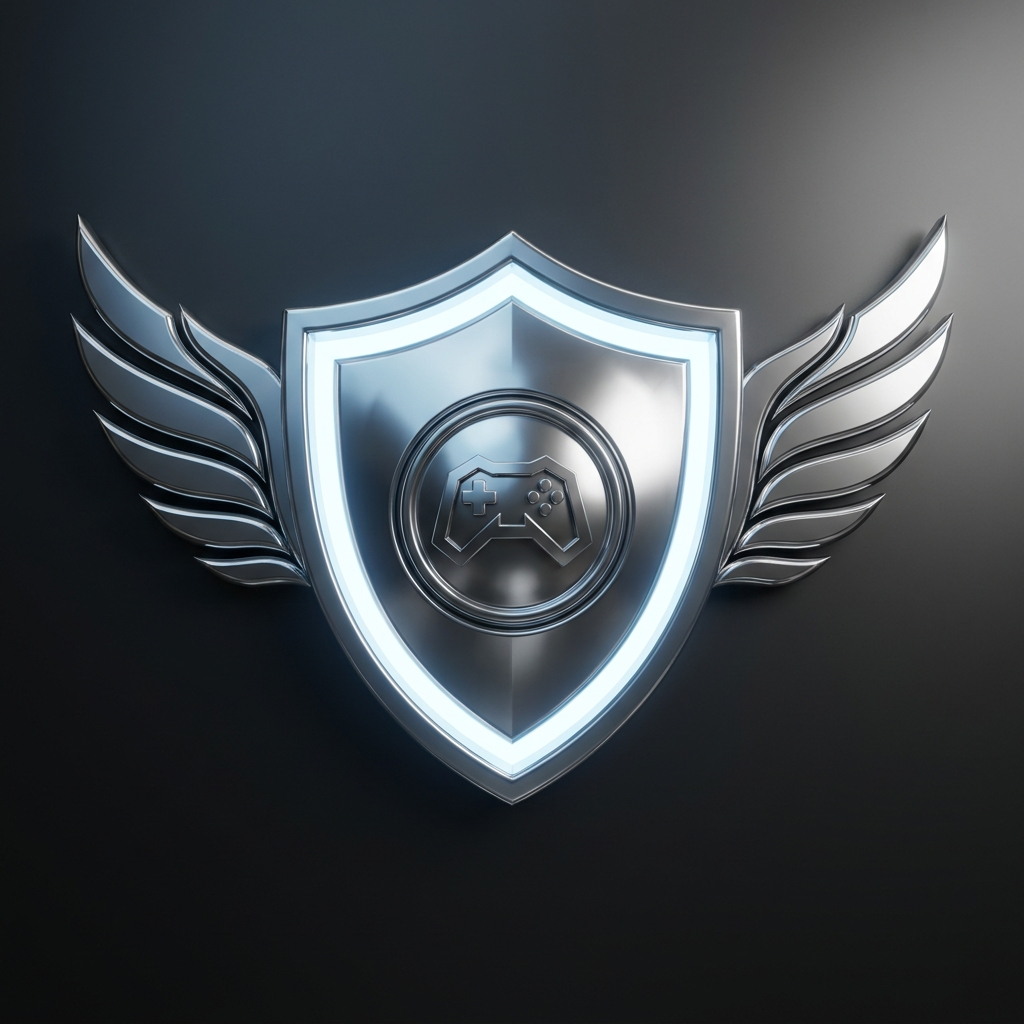
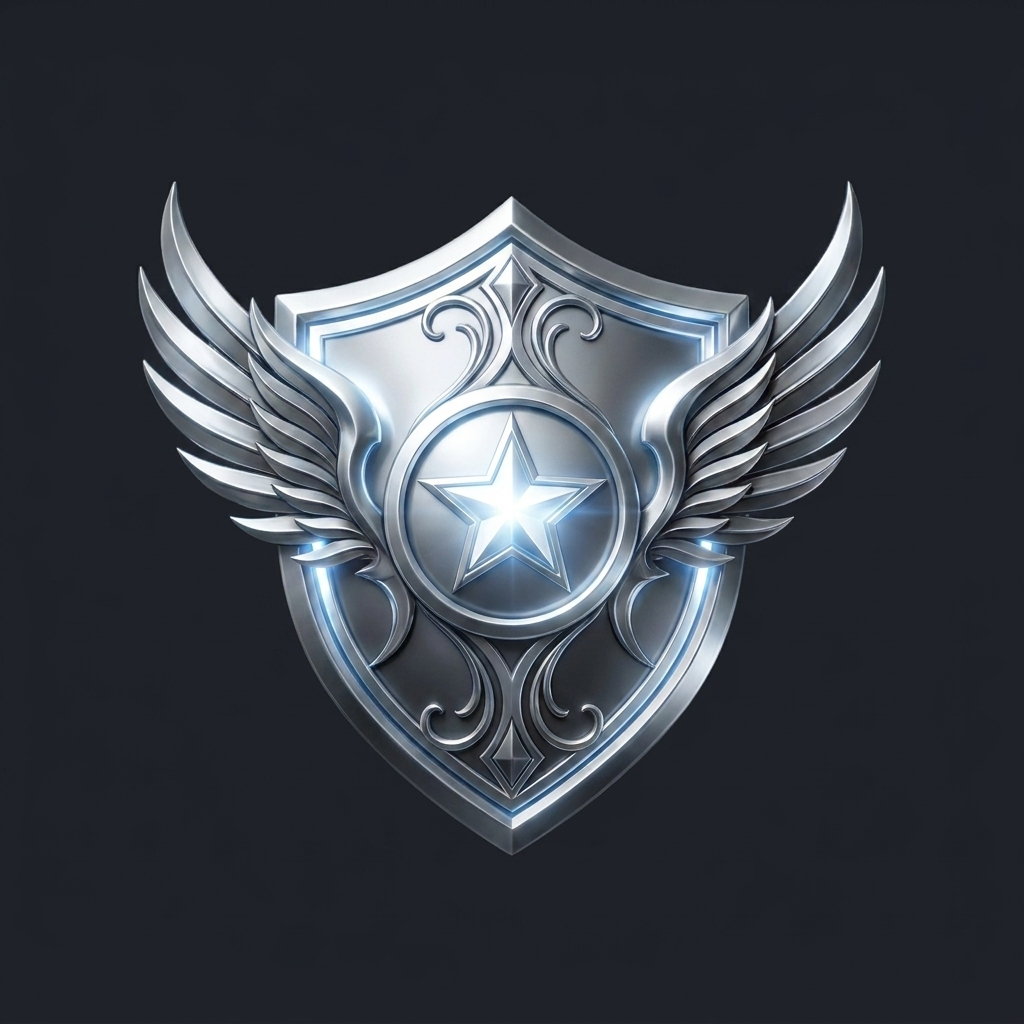
Unify rank badges (one emblem, 8 colors) and start at Copper
- Regenerated all 8 badges from a single master emblem, recolored per tier
  (Copper..Champion) so they're identical except color
- New players start at Copper (rating 700); storage key bumped to reset
- Updated gallery + ranked screen defaults to Copper

diff --git a/ranks.html b/ranks.html
@@ -54,12 +54,12 @@
 </head>
 <body>
   <h1>The Rank Ladder</h1>
-  <p class="sub">Win ranked matches to climb · Everyone starts at Silver</p>
+  <p class="sub">Win ranked matches to climb · Everyone starts at Copper</p>
 
   <div class="grid">
-    <div class="card"><span class="num">1</span><img src="assets/ranks/copper.png" alt="Copper" /><div class="tier">Copper</div><div class="note"></div></div>
+    <div class="card start"><span class="num">1</span><img src="assets/ranks/copper.png" alt="Copper" /><div class="tier">Copper</div><div class="note">★ Starting rank</div></div>
     <div class="card"><span class="num">2</span><img src="assets/ranks/bronze.png" alt="Bronze" /><div class="tier">Bronze</div><div class="note"></div></div>
-    <div class="card start"><span class="num">3</span><img src="assets/ranks/silver.png" alt="Silver" /><div class="tier">Silver</div><div class="note">★ Starting rank</div></div>
+    <div class="card"><span class="num">3</span><img src="assets/ranks/silver.png" alt="Silver" /><div class="tier">Silver</div><div class="note"></div></div>
     <div class="card"><span class="num">4</span><img src="assets/ranks/gold.png" alt="Gold" /><div class="tier">Gold</div><div class="note"></div></div>
     <div class="card"><span class="num">5</span><img src="assets/ranks/platinum.png" alt="Platinum" /><div class="tier">Platinum</div><div class="note"></div></div>
     <div class="card"><span class="num">6</span><img src="assets/ranks/emerald.png" alt="Emerald" /><div class="tier">Emerald</div><div class="note"></div></div>

diff --git a/game.js b/game.js
@@ -206,16 +206,17 @@ function clamp(v, lo, hi) {
 }
 
 // Read/save your rank from the browser so it's remembered between visits.
+// New players start at 700 = Copper (the lowest rank).
 function loadRank() {
   try {
-    return JSON.parse(localStorage.getItem("sg_rank")) || { rating: 1000, wins: 0, losses: 0 };
+    return JSON.parse(localStorage.getItem("sg_rank2")) || { rating: 700, wins: 0, losses: 0 };
   } catch (e) {
-    return { rating: 1000, wins: 0, losses: 0 };
+    return { rating: 700, wins: 0, losses: 0 };
   }
 }
 function saveRank(r) {
   try {
-    localStorage.setItem("sg_rank", JSON.stringify(r));
+    localStorage.setItem("sg_rank2", JSON.stringify(r));
   } catch (e) {}
 }
 

diff --git a/index.html b/index.html
@@ -102,7 +102,7 @@
       <div class="ranked-hero">
         <h2 class="ranked-title">RANKED</h2>
         <img id="ranked-badge" class="ranked-badge" alt="your rank" />
-        <div id="ranked-tier" class="ranked-tier">Silver</div>
+        <div id="ranked-tier" class="ranked-tier">Copper</div>
         <div class="ranked-sub">Race a real opponent. Win to climb the ladder.</div>
 
         <div class="ranked-sports">

diff --git a/server/server.js b/server/server.js
@@ -30,7 +30,7 @@ try {
 }
 
 function record(id) {
-  if (!ratings[id]) ratings[id] = { rating: 1000, wins: 0, losses: 0, draws: 0 };
+  if (!ratings[id]) ratings[id] = { rating: 700, wins: 0, losses: 0, draws: 0 }; // 700 = Copper
   return ratings[id];
 }
 function saveRatings() {
